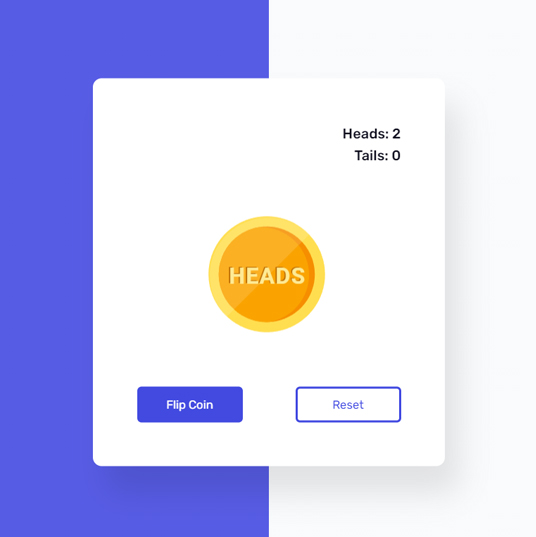
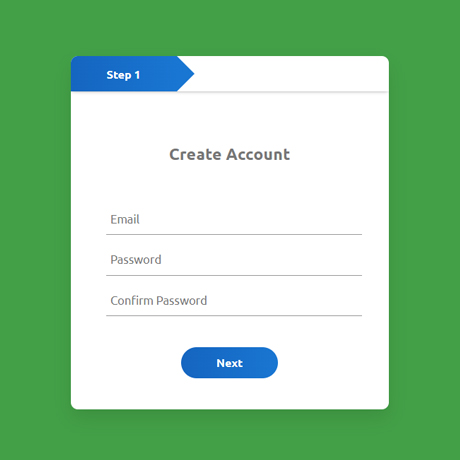
Add files via upload

diff --git a/style.css b/style.css
@@ -1,106 +1,124 @@
-@import url('https://fonts.googleapis.com/css2?family=Rubik:wght@300;400;500;600;700&display=swap');
+@import url('https://fonts.googleapis.com/css2?family=Ubuntu:wght@300;400;500;700&display=swap');
 
 *{
     margin: 0;
     padding: 0;
-    box-sizing: border-box;
-    font-family: 'Rubik', sans-serif;
+    font-family: 'Ubuntu';
 }
 
 body{
-    height: 100%;
-    background: linear-gradient(to right, #575ce5 50%, #f9fbfc 50%) fixed;
+    background: #43a047;
+    display: flex;
+    align-items: center;
+    justify-content: center;
+    min-height: 100vh;
 }
 
 .container{
+    width: 360px;
+    height: 400px;
+    margin: 8% auto;
     background: #fff;
-    width: 400px;
-    padding: 50px;
-    position: absolute;
-    transform: translate(-50%, -50%);
-    top: 50%;
-    left: 50%;
-    box-shadow: 15px 30px 35px rgba(0, 0, 0, 0.1);
-    border-radius: 10px;
-    -webkit-perspective: 300px;
-    perspective: 300px;
-}
-
-.stats{
-    text-align: right;
-    color: #101020;
-    font-weight: 500;
-    line-height: 25px;
-}
-
-.coin{
-    height: 150px;
-    width: 150px;
+    border-radius: 8px;
     position: relative;
-    margin: 50px auto;
-    -webkit-transform-style: preserve-3d;
-    transform-style: preserve-3d;
+    overflow: hidden;
+    box-shadow: 0 10px 20px rgba(0, 0, 0, 0.1); 
 }
 
-.tails{
-    transform: rotateX(180deg);
+h3{
+    text-align: center;
+    margin-bottom: 40px;
+    color: #777;
 }
 
-.buttons{
-    display: flex;
-    justify-content: space-between;
-}
-
-.coin img{
-    width: 145px;
-}
-
-.heads, .tails{
+.container form{
+    width: 280px;
     position: absolute;
+    top: 100px;
+    left: 40px;
+    transition: 0.5s;
+}
+
+form input{
     width: 100%;
-    height: 100%;
-    backface-visibility: hidden;
-    -webkit-backface-visibility: hidden;
+    padding: 10px 5px;
+    margin: 5px 0;
+    border: 0;
+    border-bottom: 1px solid #999;
+    outline: none;
+    background: transparent;
 }
 
-button{
-    width: 120px;
-    padding: 10px 0;
-    border: 2.5px solid #424ae0;
-    border-radius: 5px;
-    cursor: pointer;
+::placeholder{
+    color: #777;
 }
 
-#flip-button{
-    background: #424ae0;
+.btn-box{
+    width: 100%;
+    margin: 30px auto;
+    text-align: center;
+}
+
+form button{
+    width: 110px;
+    height: 35px;
+    margin: 0 10px;
+    background: linear-gradient(to right, #1565c0, #1976d2);
+    border-radius: 30px;
+    border: 0;
+    outline: none;
     color: #fff;
+    cursor: pointer;
+    font-weight: 700;
+    font-size: 0.8em;
 }
 
-#flip-button:disabled{
-    background-color: #e1e0ee;
-    color: #101020;
-    border-color: #e1e0ee;
+#form2{
+    left: 450px;
 }
 
-#reset-button{
-    background: #fff;
-    color: #424ae0;
+#form3{
+    left: 450px;
 }
 
-@keyframes spin-tails{
-    0%{
-        transform: rotateX(0);
-    }
-    100%{
-        transform: rotateX(1980deg);
-    }
+.step-row{
+    width: 360px;
+    height: 40px;
+    margin: 0 auto;
+    display: flex;
+    align-items: center;
+    box-shadow: 0 -1px 5px -1px #000;
+    position: relative;
 }
 
-@keyframes spin-heads{
-    0%{
-        transform: rotateX(0);
-    }
-    100%{
-        transform: rotateX(2160deg);
-    }
+.step-col{
+    width: 120px;
+    text-align: center;
+    color: #333;
+    position: relative;
+}
+
+#progress{
+    position: absolute;
+    height: 100%;
+    width: 120px;
+    background: linear-gradient(to right, #1565c0, #1976d2);
+}
+
+small{
+    color: #fff;
+    font-weight: 700;
+    font-size: 0.8em;
+}
+
+#progress::after{
+    content: '';
+    height: 0;
+    width: 0;
+    border-top: 20px solid transparent;
+    border-bottom: 20px solid transparent;
+    position: absolute;
+    right: -20px;
+    top: 0;
+    border-left: 20px solid #1976d2;
 }

diff --git a/index.html b/index.html
@@ -6,34 +6,59 @@
     <meta http-equiv="X-UA-Compatible" content="IE=edge">
     <meta name="viewport" content="width=device-width, initial-scale=1.0">
     <link rel="stylesheet" href="style.css">
-    <title>Flip a coin game</title>
+    <title>Multi Step Form</title>
 </head>
 
 <body>
 
     <div class="container">
-        <div class="stats">
-            <p id="heads-count">Heads: 0</p>
-            <p id="tails-count">Tails: 0</p>
-        </div>
-        <div class="coin" id="coin">
-            <div class="heads">
-                <img src="heads.svg">
-            </div>
-            <div class="tails">
-                <img src="tails.svg">
-            </div>
-        </div>
-        <div class="buttons">
-            <button id="flip-button">
-                Flip Coin
-            </button>
-            <button id="reset-button">
-                Reset
-            </button>
-        </div>
-    </div>
+        <form id="form1">
+            <h3>Create Account</h3>
+            <input type="text" placeholder="Email" required>
+            <input type="password" placeholder="Password" required>
+            <input type="password" placeholder="Confirm Password" required>
 
+            <div class="btn-box">
+                <button type="button" id="next1">Next</button>
+            </div>
+
+        </form>
+        <form id="form2">
+            <h3>Social Links</h3>
+            <input type="text" placeholder="Instagram">
+            <input type="text" placeholder="Github">
+            <input type="text" placeholder="Twitter">
+
+
+            <div class="btn-box">
+                <button type="button" id="back1">Back</button>
+                <button type="button" id="next2">Next</button>
+            </div>
+
+        </form>
+        <form id="form3">
+            <h3>Personal Info</h3>
+            <input type="text" placeholder="First Name" required>
+            <input type="text" placeholder="Last Name" required>
+            <input type="text" placeholder="Phone Num" required>
+
+
+            <div class="btn-box">
+                <button type="button" id="back2">Back</button>
+                <button type="button" id="submit">Submit</button>
+            </div>
+
+        </form>
+
+        <div class="step-row">
+            <div id="progress"></div>
+            <div class="step-col"><small>Step 1</small></div>
+            <div class="step-col"><small>Step 2</small></div>
+            <div class="step-col"><small>Step 3</small></div>
+
+        </div>
+
+    </div>
 
     <script src="index.js"></script>
 </body>

diff --git a/index.js b/index.js
@@ -1,42 +1,29 @@
-let heads = 0;
-let tails = 0;
-let coin = document.querySelector(".coin");
-let flipBtn = document.querySelector("#flip-button");
-let resetBtn = document.querySelector("#reset-button");
+var form1 = document.getElementById("form1");
+var form2 = document.getElementById("form2");
+var form3 = document.getElementById("form3");
+var next1 = document.getElementById("next1");
+var next2 = document.getElementById("next2");
+var back1 = document.getElementById("back1");
+var back2 = document.getElementById("back2");
+var progress = document.getElementById("progress");
 
-flipBtn.addEventListener("click", () => {
-    let i = Math.floor(Math.random() * 2);
-    coin.style.animation = "none";
-    if (i) {
-        setTimeout(function () {
-            coin.style.animation = "spin-heads 3s forwards";
-        }, 100);
-        heads++;
-    } else {
-        setTimeout(function () {
-            coin.style.animation = "spin-tails 3s forwards";
-        }, 100);
-        tails++;
-    }
-    setTimeout(updateStats, 3000);
-    disableButton();
-});
-
-function updateStats() {
-    document.querySelector("#heads-count").textContent = `Heads: ${heads}`;
-    document.querySelector("#tails-count").textContent = `Tails: ${tails}`;
+next1.onclick = function () {
+    form1.style.left = "-450px";
+    form2.style.left = "40px";
+    progress.style.width = "240px";
 }
-
-function disableButton() {
-    flipBtn.disabled = true;
-    setTimeout(function () {
-        flipBtn.disabled = false;
-    }, 3000);
+back1.onclick = function () {
+    form1.style.left = "40px";
+    form2.style.left = "450px";
+    progress.style.width = "120px";
 }
-
-resetBtn.addEventListener("click", () => {
-    coin.style.animation = "none";
-    heads = 0;
-    tails = 0;
-    updateStats();
-})
+next2.onclick = function () {
+    form2.style.left = "-450px";
+    form3.style.left = "40px";
+    progress.style.width = "360px";
+}
+back2.onclick = function () {
+    form2.style.left = "40px";
+    form3.style.left = "450px";
+    progress.style.width = "240px";
+}

diff --git a/README.md b/README.md
@@ -1,5 +1,6 @@
-Flip a Coin Game
-In this tutorial ,  I am gonna showing to you how to code simple flip a coin game! this heads and tails game have very simple code and it's best js tutorial for beginners❗
+Multi Step Form
+In this tutorial,  I am gonna showing to you how to code a simple multistep form with javascript. you can use this form in your site to get user data❗
+this form also is responsive!
 
 # Screenshot
 Here we have project screenshot :
